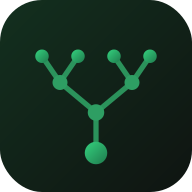
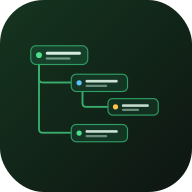
update

diff --git a/src/views/Editor.jsx b/src/views/Editor.jsx
@@ -63,6 +63,7 @@ export default function Editor({ vista, onChange, onWikilink, focusMode, allVist
   const [showTrash, setShowTrash] = useState(false)
   const [saveState, setSaveState] = useState('idle')   // idle | saving | saved | local
   const [clipCount, setClipCount] = useState(SECTION_CLIP.length)
+  const [search, setSearch] = useState('')             // ricerca fra le righe DENTRO questa vista
   const undoStack = useRef([])
   const redoStack = useRef([])
   const saveTimer = useRef(null)
@@ -89,7 +90,7 @@ export default function Editor({ vista, onChange, onWikilink, focusMode, allVist
     setBlocks(b)
     setTitle(vista.titolo || '')
     setTrash(cleanTrash)
-    setEditing(null); setSelectMode(false); setSelected(new Set()); setShowTrash(false)
+    setEditing(null); setSelectMode(false); setSelected(new Set()); setShowTrash(false); setSearch('')
     prevChars.current = totalChars(vista.blocchi)
     undoStack.current = []; redoStack.current = []
     if ((vista.cestino || []).length !== cleanTrash.length) {
@@ -190,6 +191,12 @@ export default function Editor({ vista, onChange, onWikilink, focusMode, allVist
         if (tag === 'INPUT' || tag === 'TEXTAREA') return   // lascia fare la copia nativa dentro un campo
         e.preventDefault()
         copySection()
+      }
+      else if ((e.ctrlKey || e.metaKey) && (e.key === 'x' || e.key === 'X') && selectMode && selected.size) {
+        const tag = document.activeElement?.tagName
+        if (tag === 'INPUT' || tag === 'TEXTAREA') return   // lascia fare il taglio nativo dentro un campo
+        e.preventDefault()
+        cutSection()
       }
     }
     window.addEventListener('keydown', h)
@@ -317,10 +324,24 @@ export default function Editor({ vista, onChange, onWikilink, focusMode, allVist
     setToast('Foglio copiato'); setTimeout(() => setToast(''), 1200)
   }
 
-  // ---- click = modifica · doppio click = copia (con discriminatore) ----
+  // ---- click = modifica · doppio click = copia · triplo click/tap = selezione ----
+  const tapRef = useRef({ id: null, n: 0, t: null })
   const activateBlock = (b) => {
     if (rowJustHandled.current) { rowJustHandled.current = false; return }  // veniamo da un drag/swipe della riga
     if (selectMode) { toggleSelect(b.id); return }
+    // conteggio tap ravvicinati sulla stessa riga: 3 = attiva la selezione
+    const tr = tapRef.current
+    if (tr.id !== b.id) { tr.id = b.id; tr.n = 0 }
+    tr.n++
+    clearTimeout(tr.t)
+    if (tr.n >= 3) {
+      tr.n = 0; tr.id = null
+      if (clickTimer.current) { clearTimeout(clickTimer.current); clickTimer.current = null }
+      setEditing(null); setSelectMode(true); setSelected(new Set([b.id]))
+      try { navigator.vibrate?.(12) } catch { /* ignore */ }
+      return
+    }
+    tr.t = setTimeout(() => { tr.id = null; tr.n = 0 }, 480)
     if (clickTimer.current) return               // arriverà il doppio click
     clickTimer.current = setTimeout(() => { clickTimer.current = null; setEditing(b.id) }, 230)
   }
@@ -620,6 +641,19 @@ export default function Editor({ vista, onChange, onWikilink, focusMode, allVist
 
   const isPlain = (t) => t && !t.startsWith('#') && t.trim() !== '---'
 
+  // ---- ricerca dentro la vista: evidenzia le righe che contengono il testo cercato ----
+  const sq = search.trim().toLowerCase()
+  const matchSet = useMemo(() => {
+    if (!sq) return null
+    const s = new Set()
+    blocks.forEach(b => { if ((b.text || '').toLowerCase().includes(sq)) s.add(b.id) })
+    return s
+  }, [sq, blocks])
+  const matchCount = matchSet ? matchSet.size : 0
+
+  // auto-altezza della textarea: cresce col contenuto (anche con testo mandato a capo)
+  const autosize = (el) => { if (!el) return; el.style.height = 'auto'; el.style.height = el.scrollHeight + 'px' }
+
   return (
     <div className="editor" ref={rootRef} tabIndex={-1}>
       <div className="editor-head">
@@ -660,7 +694,16 @@ export default function Editor({ vista, onChange, onWikilink, focusMode, allVist
 
       {!focusMode && (
         <>
-        <div className="link-hint">💡 <b>Click</b> su una riga = modifica · <b>doppio click</b> = copia · icona 🗑 = elimina (recuperabile 7 giorni). Trascina a <b>destra/sinistra</b> per nidificare. Nel testo: <code>Ctrl+B</code> grassetto, <code>Ctrl+I</code> corsivo.</div>
+        <div className="link-hint">
+          <ul className="hint-list">
+            <li><b>Tap</b> riga = modifica · <b>doppio</b> = copia · <b>triplo</b> = selezione</li>
+            <li><b>＋</b> nuova riga (anche in mezzo) · <b>⌫</b> svuota · <b>🗑</b> elimina (7 gg)</li>
+            <li><b>Invio</b> nuova riga · <b>Tab</b>/<b>⇤⇥</b> nidifica · trascina ←/→</li>
+            <li><code>Ctrl+B</code> grassetto · <code>Ctrl+I</code> corsivo · <code>Ctrl+Z</code>/<code>Ctrl+Y</code> annulla/ripeti</li>
+            <li><b>☑ Seleziona</b> → <code>Ctrl+C</code> copia · <code>Ctrl+X</code> taglia · <b>📌</b> incolla</li>
+            <li><b>🔍</b> cerca nella vista · <b>🔗</b> collega vista · swipe ←/→ cambia vista</li>
+          </ul>
+        </div>
         <div className="toolbar" onPointerDown={e => e.preventDefault()} onMouseDown={e => e.preventDefault()}>
           <button className="iconbtn" title="Annulla (Ctrl+Z)" onClick={undo}>↶</button>
           <button className="iconbtn" title="Ripeti (Ctrl+Y)" onClick={redo}>↷</button>
@@ -737,12 +780,21 @@ export default function Editor({ vista, onChange, onWikilink, focusMode, allVist
         </div>
       )}
 
+      <div className="view-search" data-noswipe="">
+        <span className="view-search-ico">🔍</span>
+        <input className="view-search-input" value={search} onChange={e => setSearch(e.target.value)}
+          placeholder="Cerca in questa vista…" />
+        {sq && <span className="view-search-count">{matchCount} ris.</span>}
+        {search && <button className="view-search-clear" title="Pulisci" onClick={() => setSearch('')}>✕</button>}
+      </div>
+
       {blocks.map(b => {
         const indent = b.indent || 0
         const isSel = selected.has(b.id)
+        const isHit = matchSet ? matchSet.has(b.id) : false
         return (
         <div key={b.id} data-block-id={b.id} data-noswipe=""
-          className={'block' + (dragId === b.id ? ' dragging' : '') + (dropId === b.id ? ' drop-target' : '') + (indent ? ' nested' : '') + (isSel ? ' selected' : '')}
+          className={'block' + (dragId === b.id ? ' dragging' : '') + (dropId === b.id ? ' drop-target' : '') + (indent ? ' nested' : '') + (isSel ? ' selected' : '') + (matchSet && !isHit ? ' search-dim' : '') + (isHit ? ' search-hit' : '')}
           draggable={editing !== b.id && !selectMode}
           onDragStart={e => onDragStart(e, b.id)}
           onDragOver={e => onDragOver(e, b.id)}
@@ -765,8 +817,10 @@ export default function Editor({ vista, onChange, onWikilink, focusMode, allVist
           <span className="handle" title="Trascina · dx/sx per nidificare">⠿</span>
           {editing === b.id ? (
             <textarea
-              ref={el => { if (el && document.activeElement !== el) el.focus({ preventScroll: true }) }}
-              value={b.text} rows={Math.max(1, b.text.split('\n').length)}
+              className="row-input"
+              ref={el => { if (el) { autosize(el); if (document.activeElement !== el) el.focus({ preventScroll: true }) } }}
+              value={b.text} rows={1}
+              onInput={e => autosize(e.target)}
               onChange={e => setText(b.id, e.target.value)}
               onBlur={() => setEditing(null)}
               onPaste={e => {
@@ -801,11 +855,15 @@ export default function Editor({ vista, onChange, onWikilink, focusMode, allVist
             <button className="iconbtn row-del" title="Elimina riga (recuperabile 7 giorni)"
               onClick={() => deleteBlock(b.id)}>🗑</button>
           )}
+          {!selectMode && (
+            <button className="row-insert" title="Inserisci una riga qui sotto"
+              onClick={() => addBlock(b.id)}>＋</button>
+          )}
         </div>
         )
       })}
 
-      <button className="add-btn" style={{marginTop:12}} onClick={() => addBlock(null)}>＋ Aggiungi blocco</button>
+      <button className="add-btn" style={{marginTop:12}} onClick={() => addBlock(null)}>＋ Aggiungi blocco in fondo</button>
 
       {ghost && <div className="drag-ghost" style={{ left: ghost.x + 14, top: ghost.y + 10 }}>{shortText(ghost.text)}</div>}
       {toast && <div className="editor-toast">{toast}</div>}

diff --git a/src/styles/app.css b/src/styles/app.css
@@ -225,9 +225,9 @@ a { color: var(--accent); text-decoration: none; }
 /* ---------- Editor ---------- */
 .editor { max-width: 760px; margin: 0 auto; padding: 18px 16px 120px; outline: none; animation: editorIn .24s cubic-bezier(.22,.7,.3,1); }
 @keyframes editorIn { from { opacity: 0; transform: translateY(10px) scale(.99); } to { opacity: 1; transform: none; } }
-.editor-head { display: flex; align-items: center; gap: 10px; margin-bottom: 8px; }
+.editor-head { display: flex; align-items: center; gap: 10px; margin-bottom: 8px; flex-wrap: wrap; padding-right: 130px; }
 .editor-title {
-  flex: 1; min-width: 0; background: transparent; border: none; color: var(--text); font-size: 26px;
+  flex: 0 1 auto; min-width: 0; background: transparent; border: none; color: var(--text); font-size: 26px;
   font-weight: 800; outline: none;
 }
 .save-state {
@@ -259,7 +259,8 @@ a { color: var(--accent); text-decoration: none; }
 .block .rendered { flex: 1; line-height: 1.6; cursor: text; min-height: 1.6em; touch-action: pan-y; }
 .block textarea {
   flex: 1; background: var(--bg-2); border: 1px solid var(--green-deep); border-radius: 8px;
-  color: var(--text); font: inherit; padding: 8px 10px; resize: none; outline: none; line-height: 1.6;
+  color: var(--text); font: inherit; padding: 8px 10px; resize: vertical; overflow: hidden; outline: none;
+  line-height: 1.6; min-height: 2.6em; box-sizing: border-box;
 }
 .block .copytap { font-size: 11px; color: var(--text-dim); opacity: 0; transition: .15s; padding: 4px; }
 .block:hover .copytap { opacity: 1; }
@@ -389,6 +390,35 @@ a { color: var(--accent); text-decoration: none; }
   border-radius: 10px; padding: 9px 12px; margin-bottom: 20px; font-size: 12.5px; color: var(--text-dim); line-height: 1.5;
 }
 .link-hint code { background: var(--bg); padding: 1px 5px; border-radius: 4px; color: var(--green-bright); }
+.hint-list { margin: 0; padding-left: 16px; display: flex; flex-direction: column; gap: 3px; }
+.hint-list li { line-height: 1.45; }
+
+/* ---------- Ricerca dentro la vista ---------- */
+.view-search {
+  display: flex; align-items: center; gap: 8px; margin: 2px 0 12px;
+  background: var(--bg-2); border: 1px solid var(--border); border-radius: 10px; padding: 6px 10px;
+}
+.view-search-ico { font-size: 14px; opacity: .8; }
+.view-search-input {
+  flex: 1; min-width: 0; background: transparent; border: none; outline: none;
+  color: var(--text); font: inherit; font-size: 14px;
+}
+.view-search-count { font-size: 12px; color: var(--green-bright); font-weight: 700; white-space: nowrap; }
+.view-search-clear {
+  flex: 0 0 auto; width: 26px; height: 26px; border-radius: 7px; border: 1px solid var(--border);
+  background: var(--panel); color: var(--text-dim); font-size: 13px;
+}
+.block.search-dim { opacity: .32; }
+.block.search-hit { background: color-mix(in srgb, var(--green-bright) 14%, var(--bg-2)); box-shadow: inset 0 0 0 1px color-mix(in srgb, var(--green-bright) 40%, transparent); }
+
+/* ---------- Inserimento riga (＋ per riga, anche in mezzo) ---------- */
+.block .row-insert {
+  flex: 0 0 auto; width: 28px; height: 28px; border-radius: 8px; font-size: 16px; line-height: 1;
+  border: 1px dashed var(--green-deep); background: var(--panel); color: var(--green-bright);
+  opacity: .45; transition: opacity .12s, background .12s, border-color .12s; cursor: pointer;
+}
+.block:hover .row-insert { opacity: 1; }
+.block .row-insert:hover { background: var(--panel-2); border-color: var(--green-bright); }
 
 /* ---------- Suggerimento collegamenti ---------- */
 .link-suggest {
@@ -439,6 +469,13 @@ a { color: var(--accent); text-decoration: none; }
   .theme-grid { grid-template-columns: 1fr; }
 
   .pomodoro { right: 12px; bottom: 12px; }
+
+  /* Righe più comode da telefono: casella di scrittura più alta e leggibile,
+     pulsanti azione sempre visibili (niente hover sul touch). */
+  .editor-head { padding-right: 0; }
+  .block textarea { min-height: 3.2em; font-size: 16px; padding: 10px 12px; }
+  .block .row-insert, .block .row-clear, .block .row-del { opacity: 1; }
+  .block .row-insert { width: 32px; height: 32px; }
 }
 
 @media (max-width: 380px) {

diff --git a/src/App.jsx b/src/App.jsx
@@ -417,7 +417,7 @@ export default function App() {
   return (
     <div className="app">
       <div className="topbar">
-        <div className="brand"><BrandLogo /><span>Arbora</span></div>
+        <div className="brand"><BrandLogo /><span>Arbora Notes</span></div>
         <div className="spacer" />
         <div className="tabs">
           {TABS.map((t, i) => {
@@ -616,23 +616,30 @@ function BrandLogo() {
   return (
     <svg className="brand-logo" viewBox="0 0 512 512" xmlns="http://www.w3.org/2000/svg" aria-hidden="true">
       <rect width="512" height="512" rx="112" fill="var(--panel-2)" stroke="var(--border)" strokeWidth="6" />
-      <g stroke="var(--green)" strokeWidth="14" strokeLinecap="round" fill="none" opacity="0.9">
-        <path d="M256 392 L256 300" />
-        <path d="M256 300 L160 220" />
-        <path d="M256 300 L352 220" />
-        <path d="M160 220 L112 150" />
-        <path d="M160 220 L208 150" />
-        <path d="M352 220 L304 150" />
-        <path d="M352 220 L400 150" />
+      {/* struttura ad albero come nel Tree dell'app */}
+      <g fill="none" stroke="var(--green-bright)" strokeWidth="7" strokeLinecap="round" opacity="0.9">
+        <path d="M104 172 L104 210 Q104 220 114 220 L192 220" />
+        <path d="M220 244 L220 275 Q220 285 230 285 L290 285" />
+        <path d="M104 172 L104 344 Q104 354 114 354 L192 354" />
       </g>
-      <circle cx="256" cy="408" r="30" fill="var(--green-deep)" />
-      <circle cx="256" cy="300" r="22" fill="var(--green)" />
-      <circle cx="160" cy="220" r="20" fill="var(--green)" />
-      <circle cx="352" cy="220" r="20" fill="var(--green)" />
-      <circle cx="112" cy="150" r="18" fill="var(--green-bright)" />
-      <circle cx="208" cy="150" r="18" fill="var(--green-bright)" />
-      <circle cx="304" cy="150" r="18" fill="var(--green-bright)" />
-      <circle cx="400" cy="150" r="18" fill="var(--green-bright)" />
+      <g stroke="var(--green)" strokeWidth="4" fill="var(--panel)">
+        <rect x="82" y="122" width="152" height="50" rx="14" />
+        <rect x="190" y="198" width="150" height="46" rx="13" />
+        <rect x="288" y="263" width="134" height="44" rx="12" />
+        <rect x="190" y="332" width="150" height="46" rx="13" />
+      </g>
+      <g stroke="none">
+        <circle cx="104" cy="147" r="9" fill="var(--green-bright)" />
+        <circle cx="211" cy="221" r="8" fill="var(--green-bright)" />
+        <circle cx="308" cy="285" r="8" fill="var(--green-bright)" />
+        <circle cx="211" cy="355" r="8" fill="var(--green-bright)" />
+      </g>
+      <g fill="var(--text)" opacity="0.6">
+        <rect x="122" y="139" width="94" height="8" rx="4" />
+        <rect x="228" y="214" width="86" height="7" rx="3" />
+        <rect x="325" y="279" width="72" height="7" rx="3" />
+        <rect x="228" y="348" width="86" height="7" rx="3" />
+      </g>
     </svg>
   )
 }

diff --git a/src/lib/guides.js b/src/lib/guides.js
@@ -40,8 +40,10 @@ export const GUIDES = {
     titolo: 'Guida · Editor',
     icona: '✍️',
     righe: [
-      ['Blocchi', 'Ogni riga è un blocco markdown. Invio crea un nuovo blocco.'],
-      ['Modifica / copia', 'Click (o tap) su una riga la modifica; doppio click (o doppio tap) la copia.'],
+      ['Blocchi', 'Ogni riga è un blocco markdown. Invio crea un nuovo blocco; il ＋ sulla riga ne inserisce uno subito sotto (anche in mezzo).'],
+      ['Textbox', 'La casella di una riga cresce da sola col testo; trascina l’angolo in basso a destra per allargarla ancora.'],
+      ['Modifica / copia / seleziona', 'Tap su una riga = modifica; doppio tap = copia; triplo tap = attiva la modalità selezione su quella riga.'],
+      ['Ricerca', 'La barra 🔍 in cima cerca il testo fra le righe della vista: le corrispondenze restano evidenziate, le altre sbiadite.'],
       ['Elimina riga', 'Tocca l’icona 🗑 sulla riga: finisce nel Cestino, recuperabile per 7 giorni.'],
       ['Cestino', 'Il pulsante 🗑 Cestino mostra le righe eliminate di recente, con ripristino.'],
       ['Formattazione', 'Toolbar: Titolo, **Grassetto**, *Corsivo*, sezione —. Scorciatoie: Ctrl+B e Ctrl+I sulla selezione.'],
@@ -49,7 +51,7 @@ export const GUIDES = {
       ['Nidificare', 'Trascina un blocco a destra/sinistra, o usa Tab / Maiusc+Tab: le barre colorate mostrano i livelli.'],
       ['Incolla strutturato', 'Incollando testo su più righe con spazi/tab, viene diviso in righe con i livelli giusti.'],
       ['Copia foglio', 'Il pulsante ⧉ Copia foglio copia tutte le righe con i rientri.'],
-      ['Selezione / sezioni', '☑ Seleziona → ☑ Tutte, ⤵ Sezione, poi ⧉ Copia · ✂ Taglia · 📌 Incolla (anche in un’altra vista).'],
+      ['Selezione / sezioni', '☑ Seleziona (o triplo tap) → ☑ Tutte, ⤵ Sezione, poi ⧉ Copia · ✂ Taglia · 📌 Incolla (anche in un’altra vista). Scorciatoie: Ctrl+C copia, Ctrl+X taglia.'],
       ['Cambia vista', 'Dentro una vista, swipe a destra/sinistra per passare alla vista precedente/successiva.'],
       ['Riordinare', 'Trascina un blocco in alto o in basso per spostarlo.'],
       ['Annulla / ripeti', 'Ctrl+Z e Ctrl+Y (o i pulsanti ↶ ↷).'],

diff --git a/vite.config.js b/vite.config.js
@@ -15,9 +15,9 @@ export default defineConfig({
       registerType: 'autoUpdate',
       includeAssets: ['favicon.svg', 'icon-192.png', 'icon-512.png'],
       manifest: {
-        name: 'Arbora',
-        short_name: 'Arbora',
-        description: 'Note ad albero per imprenditori: Vite, Visioni, Viste.',
+        name: 'Arbora Notes',
+        short_name: 'Arbora Notes',
+        description: 'Note ad albero per imprenditori: Visioni, Viste, Progresso.',
         theme_color: '#1f7a4d',
         background_color: '#0f1411',
         display: 'standalone',

diff --git a/index.html b/index.html
@@ -5,8 +5,8 @@
     <link rel="icon" type="image/svg+xml" href="favicon.svg" />
     <meta name="viewport" content="width=device-width, initial-scale=1.0, maximum-scale=5.0, viewport-fit=cover" />
     <meta name="theme-color" content="#1f7a4d" />
-    <meta name="description" content="Arbora - Note ad albero per imprenditori. Vite, Visioni, Viste." />
-    <title>Arbora</title>
+    <meta name="description" content="Arbora Notes - Note ad albero per imprenditori. Visioni, Viste, Progresso." />
+    <title>Arbora Notes</title>
   </head>
   <body>
     <div id="root"></div>